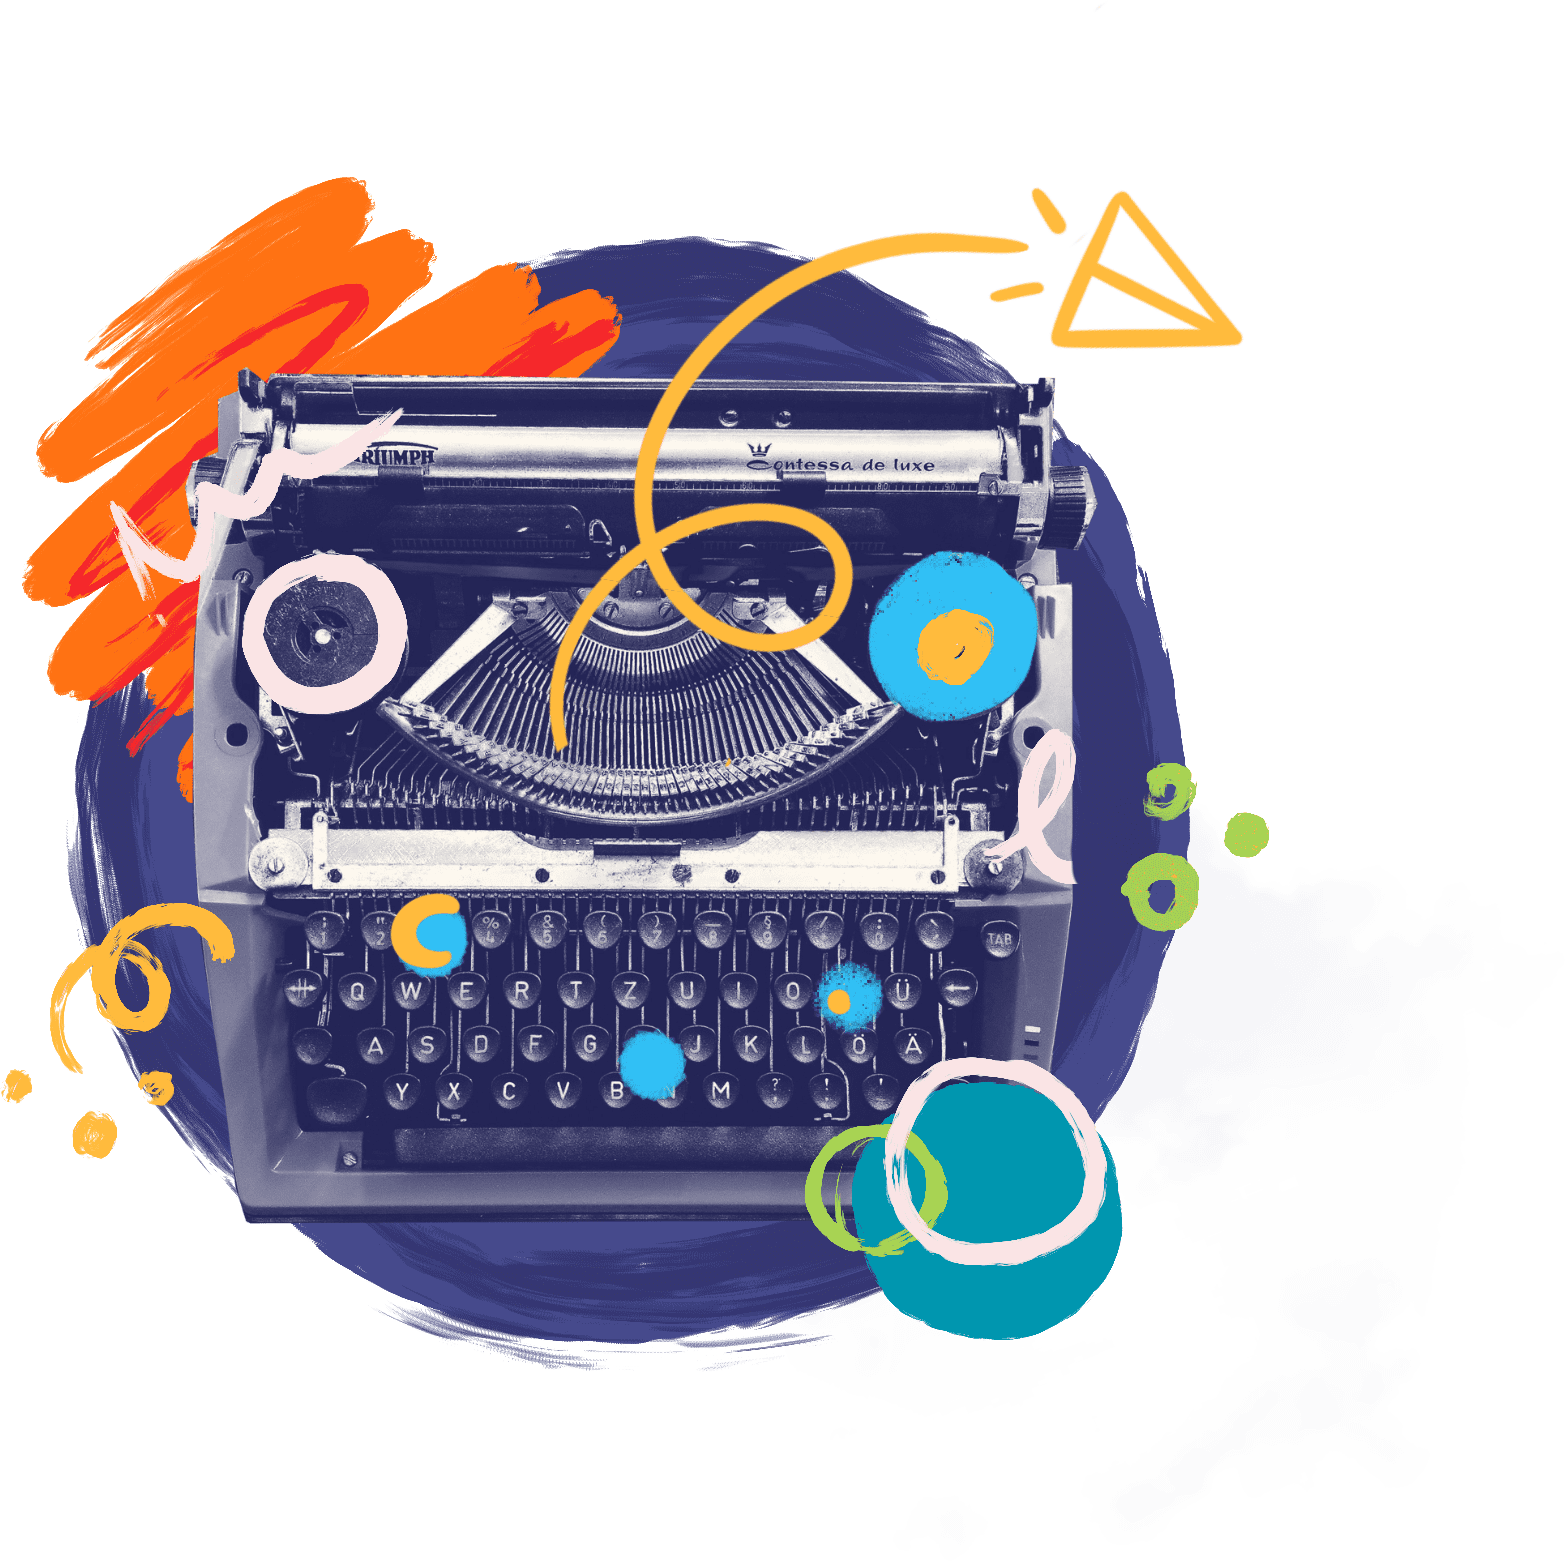
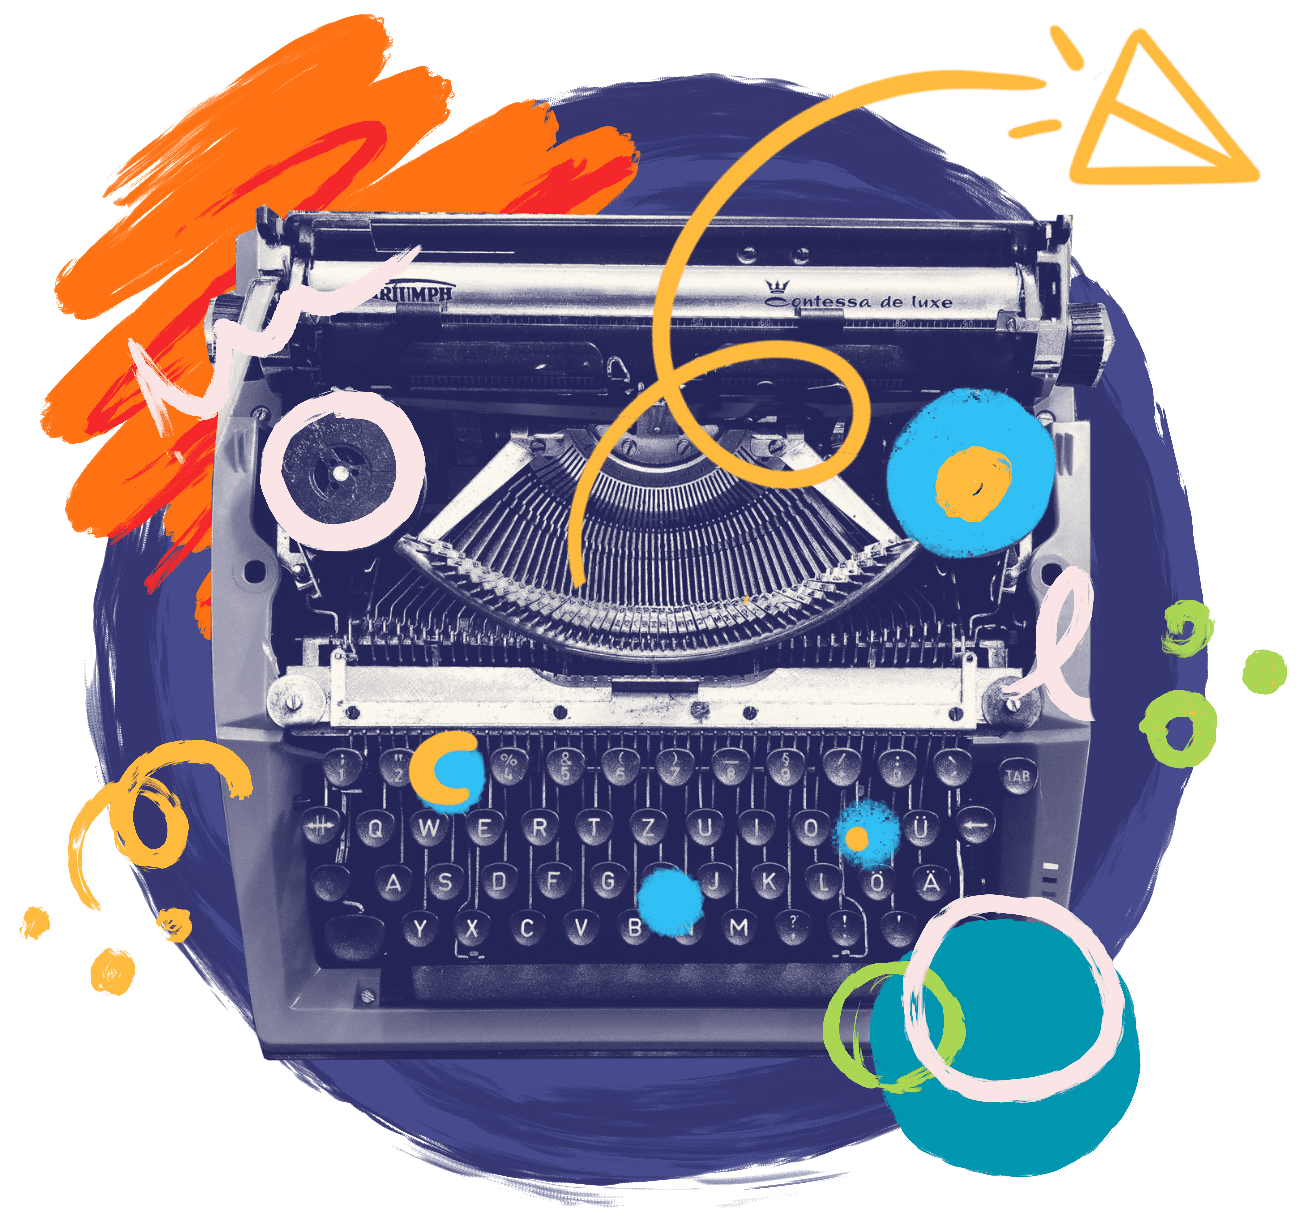
replace About page image

diff --git a/pages/about.js b/pages/about.js
@@ -87,6 +87,73 @@ export default function About() {
             </StyledResume>
           </StyledDescription>
         </div>
+        {/* <div className="container">
+          <StyledTitle
+            animate={{ opacity: [0, 1], y: [0, -50] }}
+            transition={{ duration: 0.7, delay: 0.55 }}
+          >
+            I'm Adrian, a <span className="line">self-taught</span> Front-end
+            developer living in sunny Brisbane, Australia.
+          </StyledTitle>
+          <StyledDescription
+            animate={{ opacity: [0, 1], y: [0, -50] }}
+            transition={{ duration: 0.7, delay: 1 }}
+          >
+            <p>
+              I’m a hard working and dedicated person with a determination to
+              deliver the very highest quality. I take great pride in my work,
+              and I always try to better myself with every project I work on.
+            </p>
+            <p>
+              I like to dream more, learn more, do more, and become more. I’m
+              also a fast learner and firm believer that it's never too late to
+              learn.
+            </p>
+            <p>Here are a few technologies I've been working with recently:</p>
+            <ul className="skills">
+              <li>HTML5 & CSS3</li>
+              <li>Sass</li>
+              <li>JavaScript (ES6+)</li>
+              <li>React</li>
+              <li>NextJs</li>
+              <li>Redux-toolkit</li>
+              <li>Styled-Components</li>
+              <li>Git</li>
+              <li>Google Search</li>
+            </ul>
+            <StyledResume
+              animate={{ opacity: [0, 1], y: [0, -6] }}
+              transition={{ duration: 0.7, delay: 1.5 }}
+            >
+              <a href="#">
+                <svg
+                  aria-hidden="true"
+                  focusable="false"
+                  data-prefix="fas"
+                  data-icon="paper-plane"
+                  className="svg-inline--fa fa-paper-plane fa-w-16 about__StyledIcon-sc-1wvwyem-4 iXaArJ"
+                  role="img"
+                  xmlns="http://www.w3.org/2000/svg"
+                  viewBox="0 0 512 512"
+                >
+                  <path
+                    fill="currentColor"
+                    d="M476 3.2L12.5 270.6c-18.1 10.4-15.8 35.6 2.2 43.2L121 358.4l287.3-253.2c5.5-4.9 13.3 2.6 8.6 8.3L176 407v80.5c0 23.6 28.5 32.9 42.5 15.8L282 426l124.6 52.2c14.2 6 30.4-2.9 33-18.2l72-432C515 7.8 493.3-6.8 476 3.2z"
+                  ></path>
+                </svg>
+                Resume
+              </a>
+            </StyledResume>
+          </StyledDescription>{' '}
+        </div>
+        <div className="container">
+          <StyledAvatar
+            animate={{ opacity: [0, 1], y: [0, -50] }}
+            transition={{ duration: 0.7, delay: 0.2 }}
+          >
+            <img src="/tools.png" alt="a cool typewriter" />
+          </StyledAvatar>
+        </div> */}
       </div>
       <div className="opportunity">
         <h2>

diff --git a/styles/AboutPageStyle.js b/styles/AboutPageStyle.js
@@ -2,7 +2,7 @@ import styled from 'styled-components';
 import { motion } from 'framer-motion';
 
 export const StyledAboutPage = styled.section`
-  padding: 15rem 0 8rem 0;
+  padding: 20rem 0 8rem 0;
 
   @media only screen and (max-width: 42.5em) {
     padding: 11rem 0 3rem 0;
@@ -36,7 +36,7 @@ export const StyledAboutPage = styled.section`
     margin: 0 auto;
     display: grid;
     grid-template-columns: 1fr 1fr;
-    gap: 2rem;
+    gap: 3rem;
     padding-bottom: 6rem;
     border-bottom: 4px solid ${({ theme }) => theme.aboutLine};
 
@@ -124,17 +124,8 @@ export const StyledAboutPage = styled.section`
 
 export const StyledAvatar = styled(motion.div)`
   img {
-    height: 50rem;
-    width: 50rem;
-    transform: scale(1.2) translateX(3.5vw);
-
-    @media only screen and (max-width: 42.5em) {
-      height: 35rem;
-      width: 35rem;
-    }
-
-    @media only screen and (max-width: 25em) {
-      transform: scale(1.2) translateX(-5vw);
+    @media only screen and (max-width: 71.25em) {
+      transform: scale(0.8);
     }
   }
 `;

diff --git a/styles/NavbarStyle.js b/styles/NavbarStyle.js
@@ -28,10 +28,6 @@ export const StyledNavList = styled.ul`
     width: 95%;
   }
 
-  @media only screen and (max-width: 25em) {
-    width: 100%;
-  }
-
   .no-pd {
     padding: 0;
 
@@ -61,7 +57,7 @@ export const StyledNavList = styled.ul`
     }
 
     @media only screen and (max-width: 28.4em) {
-      transform: translateX(-1.4vw);
+      transform: translateX(-1.6vw);
     }
   }
 

diff --git a/styles/ThemeTogglerStyle.js b/styles/ThemeTogglerStyle.js
@@ -34,6 +34,11 @@ export const StyledThemeToggler = styled.div`
       transform: scale(1);
     }
   }
+
+  @media only screen and (max-width: 25em) {
+    margin-right: 1rem;
+  }
+
   .power-switch {
     --color: ${({ theme }) => theme.secondary};
     width: 3.5rem;

diff --git a/styles/WorkButtonStyle.js b/styles/WorkButtonStyle.js
@@ -16,7 +16,7 @@ export const StyledWorkButton = styled.button`
   }
 
   @media only screen and (max-width: 25em) {
-    padding: 2.5rem 2.5rem;
+    padding: 2.5rem 4vw;
   }
 
   span {
